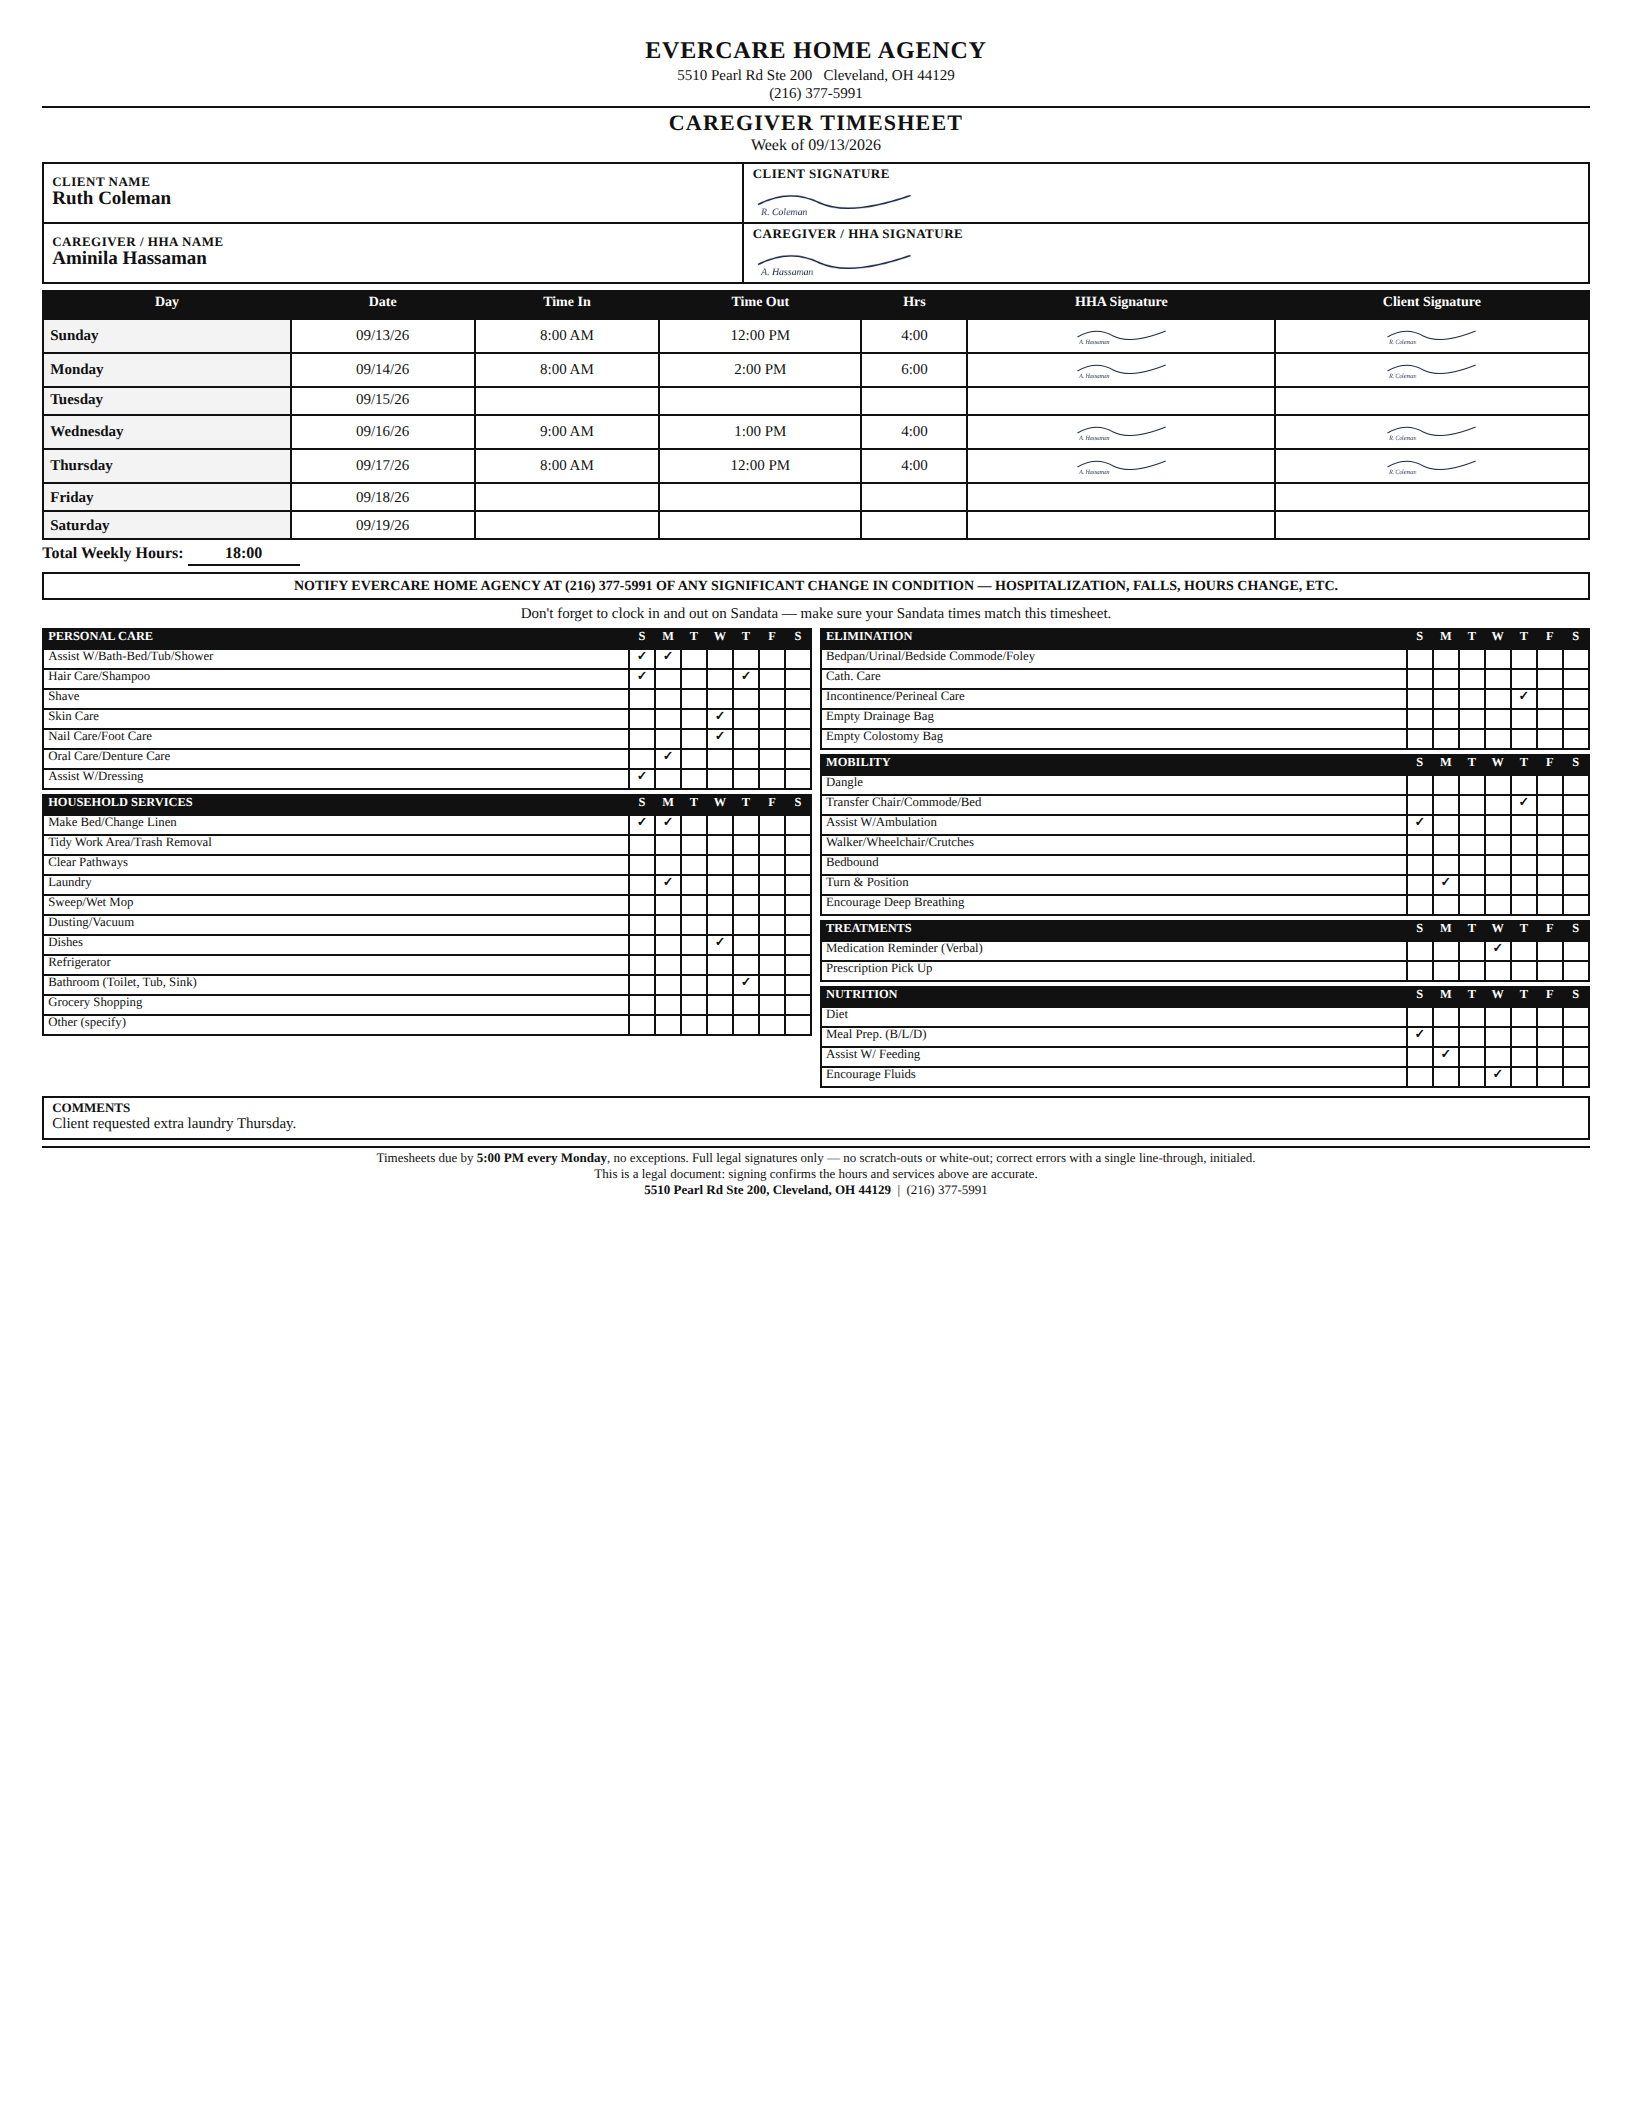
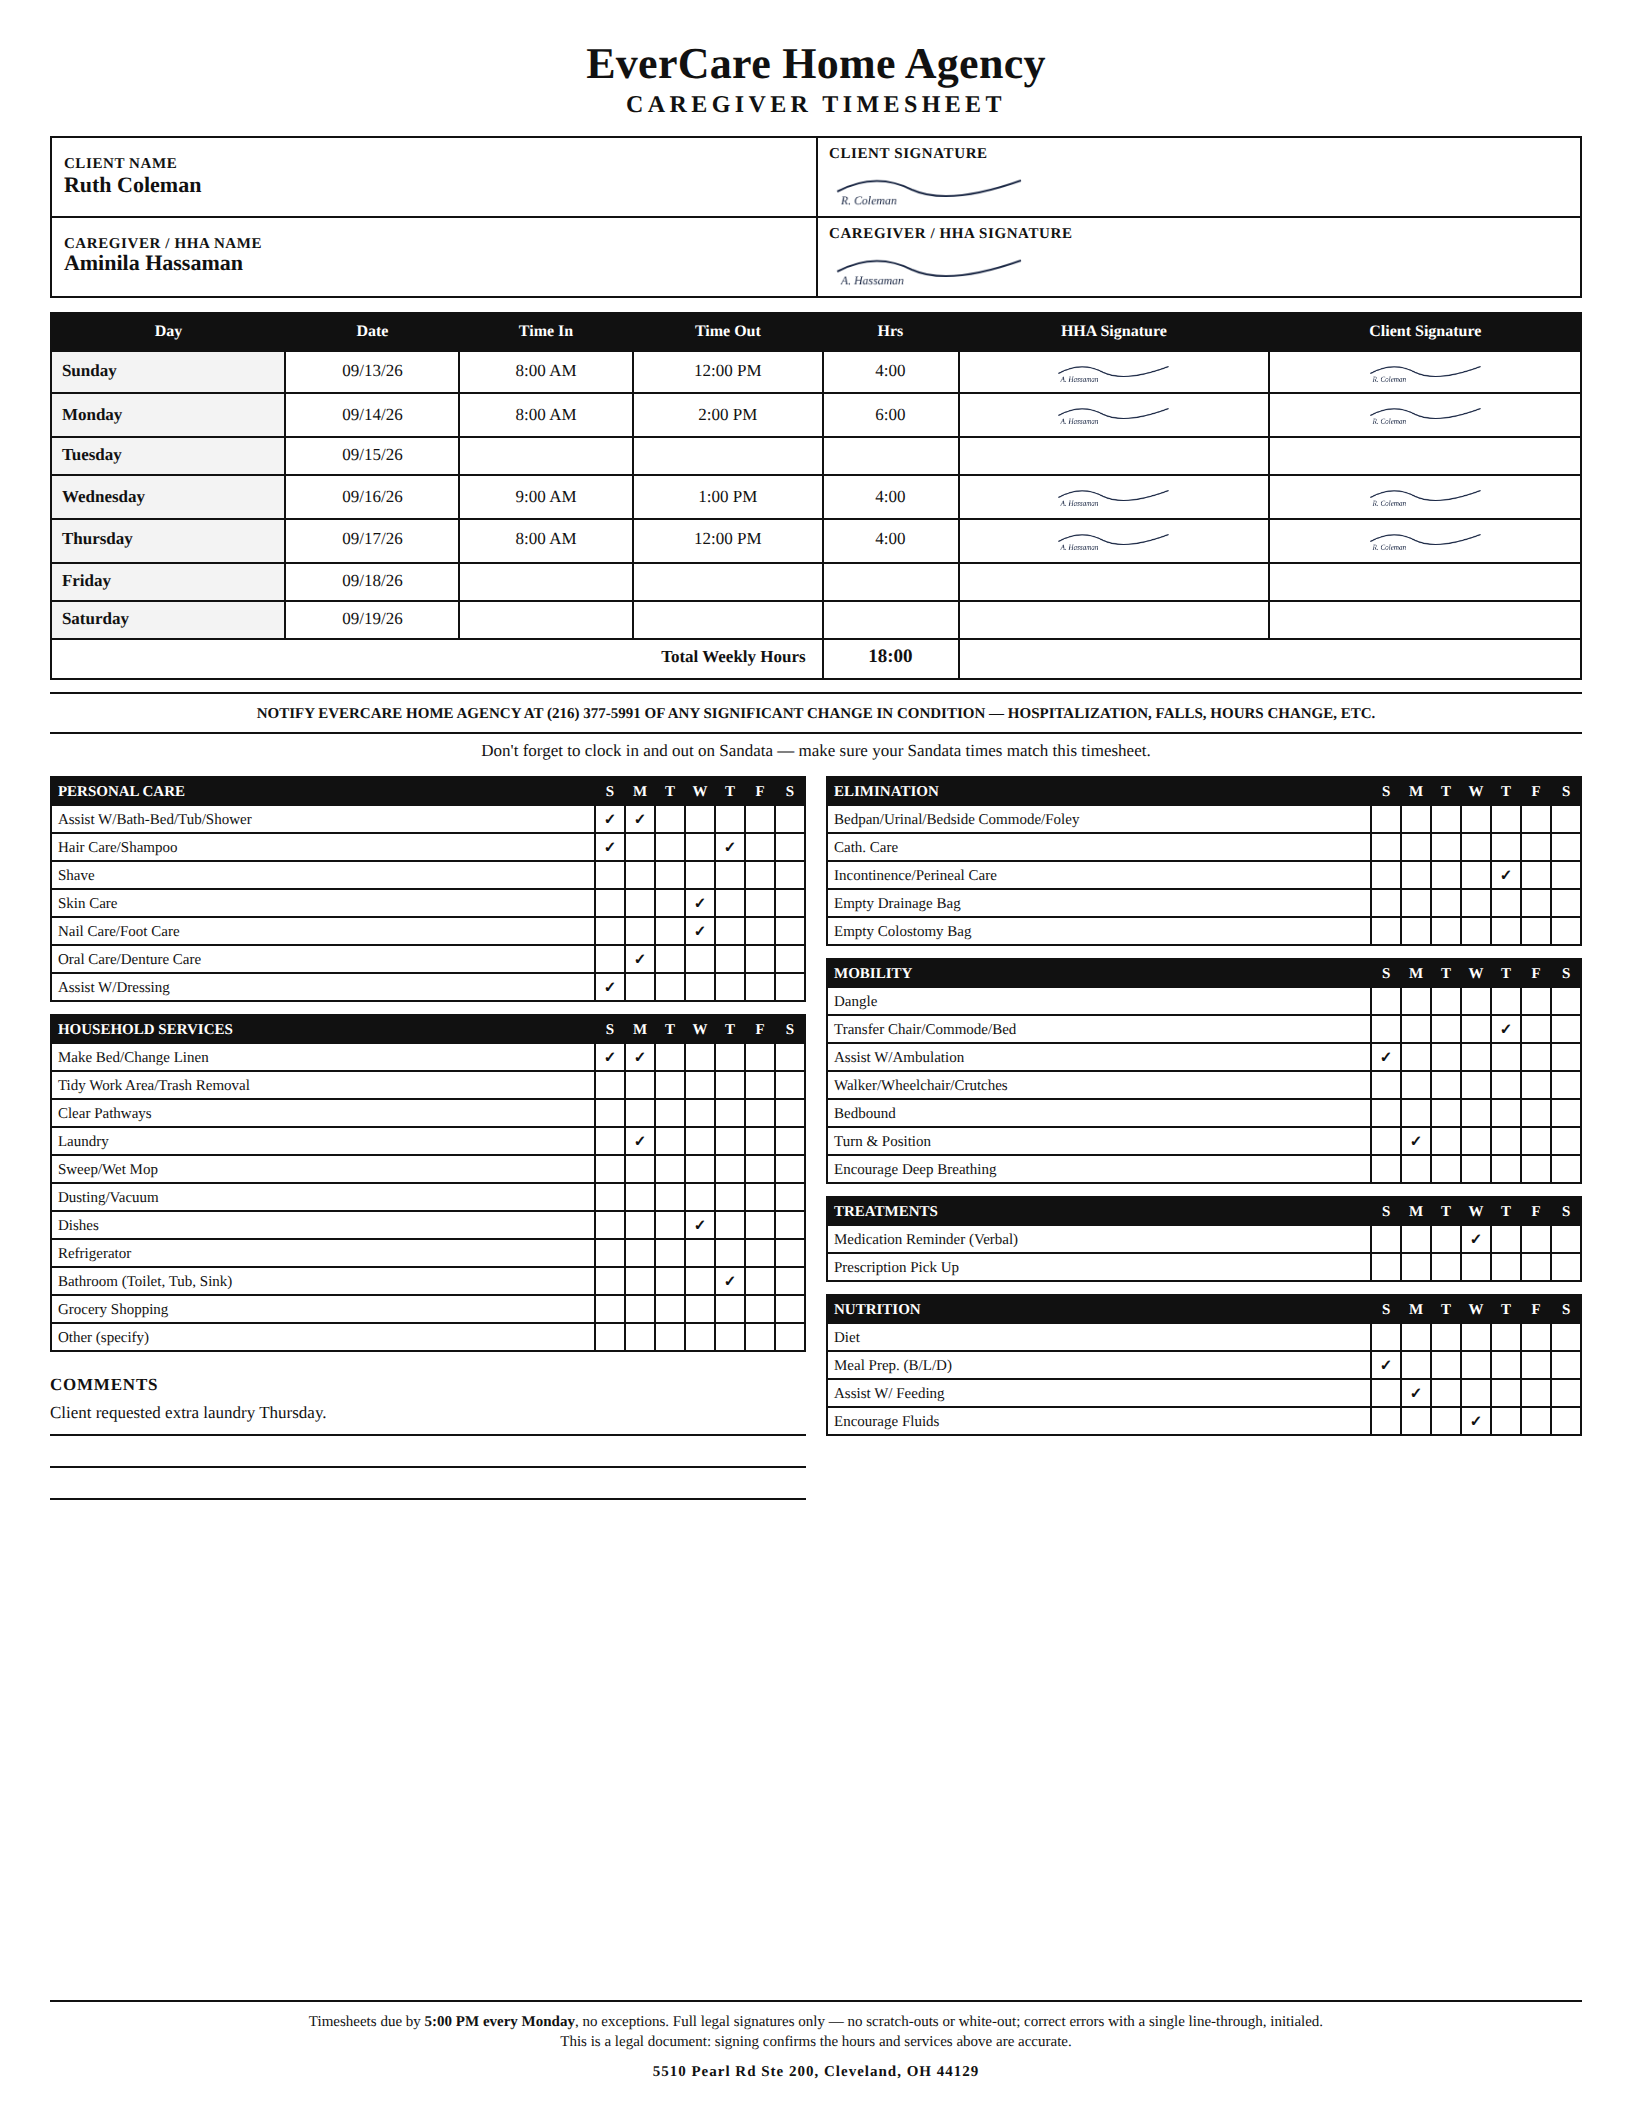
Polish Caregiver Timesheet print to fill one letter page
Tighten row heights to the paper TARGET, keep Comments as three
left-column lines (not a stretched void), pin the address footer,
and refresh the filled 8.5x11 sample PNG.

Changed region(s): [[0.0, 0.0, 1.0, 0.6875], [0.1875, 0.9375, 0.8125, 0.9688]]

diff --git a/index.html b/index.html
@@ -280,42 +280,42 @@ textarea{resize:vertical;min-height:80px;}
 body.ts-print-open{overflow:hidden;}
 .ts-print-wrap{flex:1;padding:8px 6px 20px;display:flex;justify-content:center;}
 /* US Letter lock — 612×792pt / 8.5×11in. Paper TARGET: header, hours, two-col checklist, comments left. */
-.ts-print-sheet{background:#fff;width:8.5in;height:11in;max-width:100%;padding:0.18in 0.24in 0.14in;box-shadow:0 8px 28px rgba(0,0,0,0.18);color:#111;font-family:'Times New Roman',Times,serif;box-sizing:border-box;overflow:hidden;display:flex;flex-direction:column;}
+.ts-print-sheet{background:#fff;width:8.5in;height:11in;max-width:100%;padding:0.20in 0.26in 0.16in;box-shadow:0 8px 28px rgba(0,0,0,0.18);color:#111;font-family:'Times New Roman',Times,serif;box-sizing:border-box;overflow:hidden;display:flex;flex-direction:column;}
 .ts-mo{width:100%;height:100%;display:flex;flex-direction:column;color:#111;line-height:1.15;page-break-inside:avoid;break-inside:avoid;page-break-after:avoid;break-after:avoid;}
 .ts-mo .ts-agency{text-align:center;margin:0;}
-.ts-mo .ts-agency h1{font-size:20px;letter-spacing:0.2px;margin:0;font-weight:700;text-transform:none;}
-.ts-mo .ts-title{text-align:center;font-size:11.5px;font-weight:700;text-transform:uppercase;margin:1px 0 6px;letter-spacing:2px;}
-.ts-mo .ts-meta{width:100%;border-collapse:collapse;margin-bottom:6px;font-size:8px;}
-.ts-mo .ts-meta td{border:1px solid #111;padding:3px 6px;vertical-align:middle;height:32px;width:50%;}
-.ts-mo .ts-meta .lbl{font-size:7px;text-transform:uppercase;letter-spacing:0.3px;font-weight:700;display:block;}
-.ts-mo .ts-meta .val{font-size:10px;font-weight:700;}
-.ts-mo .ts-meta img{height:20px;max-width:100%;display:block;}
-.ts-mo .ts-meta .sigline{border-bottom:1px solid #111;min-height:18px;}
-.ts-mo .ts-days{width:100%;border-collapse:collapse;font-size:8px;margin:0;}
-.ts-mo .ts-days th,.ts-mo .ts-days td{border:1px solid #111;padding:2px 3px;text-align:center;height:16px;vertical-align:middle;}
-.ts-mo .ts-days th{background:#111;color:#fff;font-weight:700;font-size:7.5px;-webkit-print-color-adjust:exact;print-color-adjust:exact;}
+.ts-mo .ts-agency h1{font-size:22px;letter-spacing:0.15px;margin:0;font-weight:700;text-transform:none;}
+.ts-mo .ts-title{text-align:center;font-size:12px;font-weight:700;text-transform:uppercase;margin:2px 0 8px;letter-spacing:2.2px;}
+.ts-mo .ts-meta{width:100%;border-collapse:collapse;margin-bottom:7px;font-size:8px;}
+.ts-mo .ts-meta td{border:1px solid #111;padding:4px 6px;vertical-align:middle;height:38px;width:50%;}
+.ts-mo .ts-meta .lbl{font-size:7.5px;text-transform:uppercase;letter-spacing:0.3px;font-weight:700;display:block;}
+.ts-mo .ts-meta .val{font-size:11px;font-weight:700;}
+.ts-mo .ts-meta img{height:22px;max-width:100%;display:block;}
+.ts-mo .ts-meta .sigline{border-bottom:1px solid #111;min-height:20px;}
+.ts-mo .ts-days{width:100%;border-collapse:collapse;font-size:8.5px;margin:0;}
+.ts-mo .ts-days th,.ts-mo .ts-days td{border:1px solid #111;padding:2px 3px;text-align:center;height:19px;vertical-align:middle;}
+.ts-mo .ts-days th{background:#111;color:#fff;font-weight:700;font-size:8px;-webkit-print-color-adjust:exact;print-color-adjust:exact;}
 .ts-mo .ts-days td.day{text-align:left;font-weight:700;white-space:nowrap;background:#f3f3f3;padding-left:5px;}
-.ts-mo .ts-days img{height:13px;max-width:56px;}
-.ts-mo .ts-days tfoot td{background:#fff;font-weight:700;height:18px;}
-.ts-mo .ts-days .totallbl{text-align:right;padding-right:8px;border-right:none;}
-.ts-mo .ts-days .totalval{border-left:none;font-size:9px;}
-.ts-mo .ts-notice{font-size:7.5px;font-weight:700;text-align:center;border-top:1px solid #111;border-bottom:1px solid #111;padding:4px 2px;margin:5px 0 2px;line-height:1.25;text-transform:uppercase;}
-.ts-mo .ts-sandata{font-size:8px;text-align:center;margin:0 0 5px;line-height:1.25;}
-.ts-mo .ts-svccols{display:grid;grid-template-columns:1fr 1fr;gap:8px;align-items:stretch;flex:1;min-height:0;margin:0;}
+.ts-mo .ts-days img{height:14px;max-width:60px;}
+.ts-mo .ts-days tfoot td{background:#fff;font-weight:700;height:20px;}
+.ts-mo .ts-days .totallbl{text-align:right;padding-right:8px;}
+.ts-mo .ts-days .totalval{font-size:9.5px;}
+.ts-mo .ts-notice{font-size:7.5px;font-weight:700;text-align:center;border-top:1px solid #111;border-bottom:1px solid #111;padding:5px 3px;margin:6px 0 3px;line-height:1.3;text-transform:uppercase;}
+.ts-mo .ts-sandata{font-size:8.5px;text-align:center;margin:0 0 7px;line-height:1.3;}
+.ts-mo .ts-svccols{display:grid;grid-template-columns:1fr 1fr;gap:10px;align-items:start;margin:0;}
 .ts-mo .ts-svccol{min-width:0;display:flex;flex-direction:column;}
-.ts-mo .ts-svcsec{margin-bottom:4px;}
-.ts-mo .ts-svc{width:100%;border-collapse:collapse;font-size:7px;table-layout:fixed;}
-.ts-mo .ts-svc th,.ts-mo .ts-svc td{border:1px solid #111;padding:1px 3px;height:12px;line-height:1.1;vertical-align:middle;}
-.ts-mo .ts-svc th{background:#111;color:#fff;font-weight:700;font-size:7px;-webkit-print-color-adjust:exact;print-color-adjust:exact;}
+.ts-mo .ts-svcsec{margin-bottom:6px;}
+.ts-mo .ts-svc{width:100%;border-collapse:collapse;font-size:7.5px;table-layout:fixed;}
+.ts-mo .ts-svc th,.ts-mo .ts-svc td{border:1px solid #111;padding:1px 3px;height:14px;line-height:1.15;vertical-align:middle;}
+.ts-mo .ts-svc th{background:#111;color:#fff;font-weight:700;font-size:7.5px;-webkit-print-color-adjust:exact;print-color-adjust:exact;}
 .ts-mo .ts-svc th.cat,.ts-mo .ts-svc td.svc{text-align:left;overflow:hidden;}
-.ts-mo .ts-svc td.mark,.ts-mo .ts-svc th.d{text-align:center;width:14px;font-weight:700;padding:0;}
-.ts-mo .ts-other{font-size:7px;margin:0 0 2px;}
-.ts-mo .ts-comments{border:none;flex:1;min-height:54px;padding:4px 0 0;font-size:8px;display:flex;flex-direction:column;}
-.ts-mo .ts-comments .lbl{font-size:8px;font-weight:700;text-transform:uppercase;margin-bottom:3px;letter-spacing:0.4px;}
-.ts-mo .ts-comment-line{border-bottom:1px solid #111;min-height:14px;flex:1;}
-.ts-mo .ts-comment-line:first-of-type{min-height:16px;}
-.ts-mo .ts-legal{font-size:7px;line-height:1.3;text-align:center;margin-top:6px;border-top:1px solid #111;padding-top:4px;flex-shrink:0;}
-.ts-mo .ts-legal .addr{display:block;margin-top:3px;font-weight:700;letter-spacing:0.4px;}
+.ts-mo .ts-svc td.mark,.ts-mo .ts-svc th.d{text-align:center;width:15px;font-weight:700;padding:0;}
+.ts-mo .ts-other{font-size:7.5px;margin:0 0 2px;}
+.ts-mo .ts-comments{border:none;padding:6px 0 0;font-size:8.5px;display:flex;flex-direction:column;}
+.ts-mo .ts-comments .lbl{font-size:8.5px;font-weight:700;text-transform:uppercase;margin-bottom:4px;letter-spacing:0.4px;}
+.ts-mo .ts-comment-line{border-bottom:1px solid #111;height:16px;}
+.ts-mo .ts-comment-line:first-of-type{height:18px;}
+.ts-mo .ts-legal{font-size:7.5px;line-height:1.35;text-align:center;margin-top:auto;border-top:1px solid #111;padding-top:5px;flex-shrink:0;}
+.ts-mo .ts-legal .addr{display:block;margin-top:4px;font-weight:700;letter-spacing:0.5px;}
 .ts-gps-mi{display:block;margin-top:3px;font-size:0.65rem;font-weight:700;}
 @media(max-width:700px){
   .ts-print-sheet{padding:8px 6px;width:100%;height:auto;min-height:11in;overflow:auto;}
@@ -416,13 +416,13 @@ body.ts-print-open{overflow:hidden;}
     width:8.5in !important;
     height:11in !important;
     max-height:11in !important;
-    padding:0.18in 0.24in 0.14in !important;
+    padding:0.20in 0.26in 0.16in !important;
     overflow:hidden !important;
     display:flex !important;
     flex-direction:column !important;
   }
   .ts-mo{height:100% !important;display:flex !important;flex-direction:column !important;}
-  .ts-mo .ts-svccols{display:grid !important;grid-template-columns:1fr 1fr !important;flex:1 !important;}
+  .ts-mo .ts-svccols{display:grid !important;grid-template-columns:1fr 1fr !important;}
 }
 
 /* Inservice assign: Assign to all + Choose aides */
